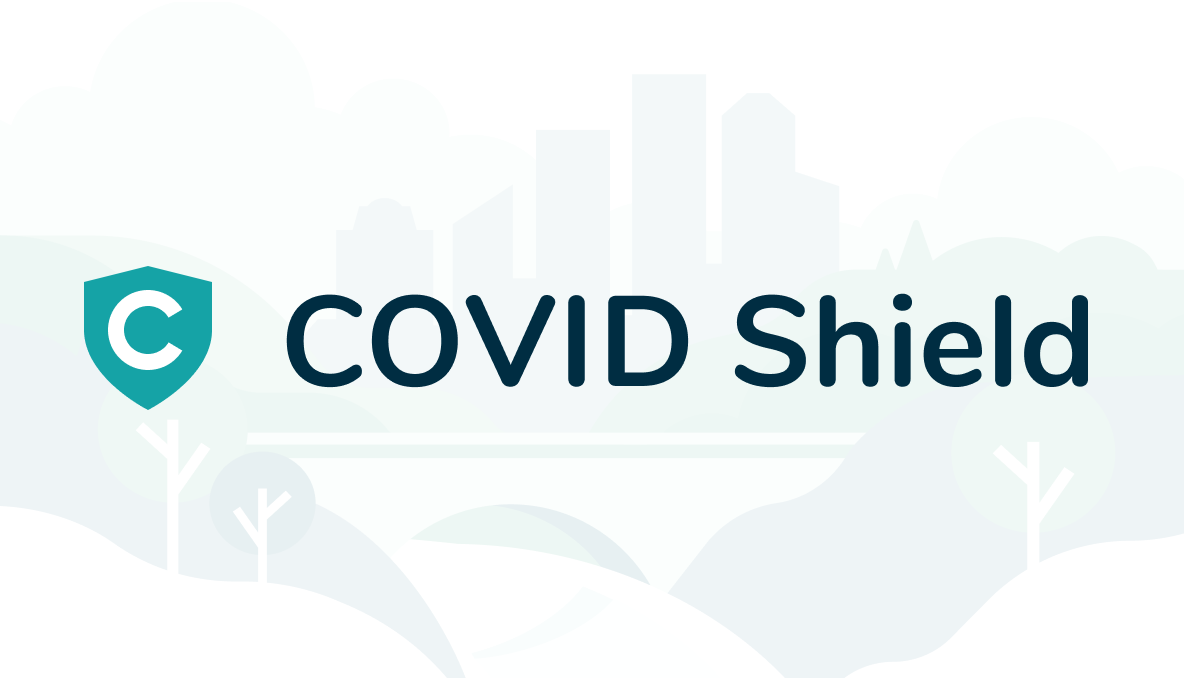
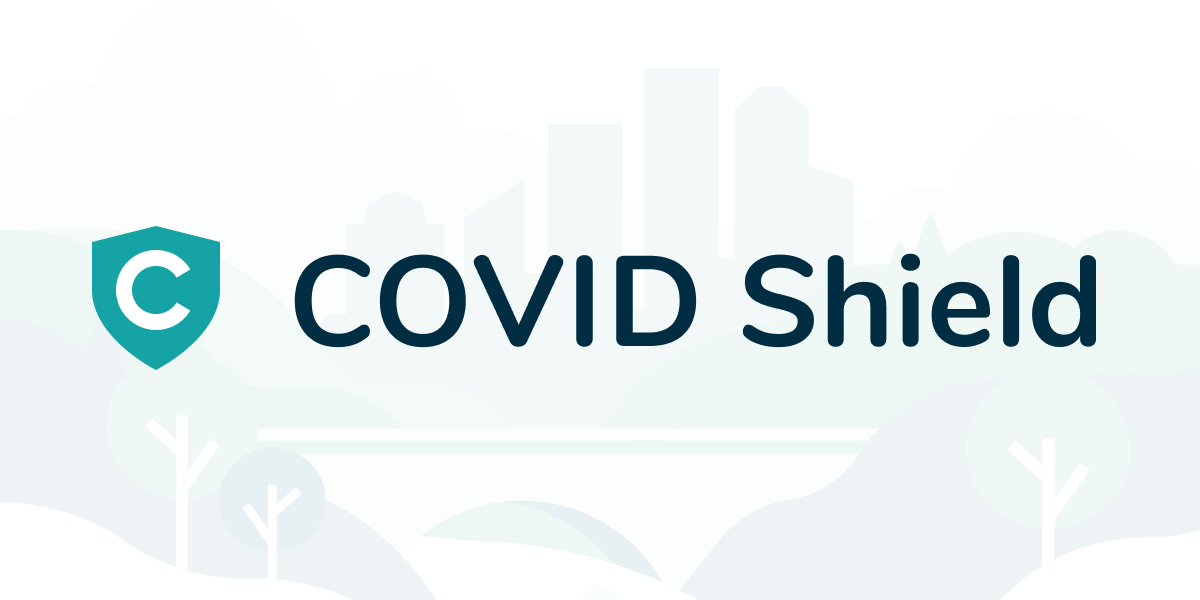
Update twitter card

diff --git a/index.html b/index.html
@@ -18,8 +18,9 @@
 
     <meta name="twitter:card" content="summary" />
     <meta name="twitter:title" content="COVID Shield – an exposure notification app" />
-    <meta name="twitter:description" content="Learn about COVID Shield." />
-    <meta name="twitter:image" content="https://raw.githubusercontent.com/CovidShield/covidshield.github.io/master/img/twitter-card.png" />
+    <meta name="twitter:description" content="Combined with the Apple & Google Exposure Notification API, this is the most privacy-preserving course
+          of action to help Canadians get safely back to work." />
+    <meta name="twitter:image" content="https://covidshield.app/img/twitter-card.png" />
 
     <meta name="theme-color" content="#fafafa" />
   </head>
